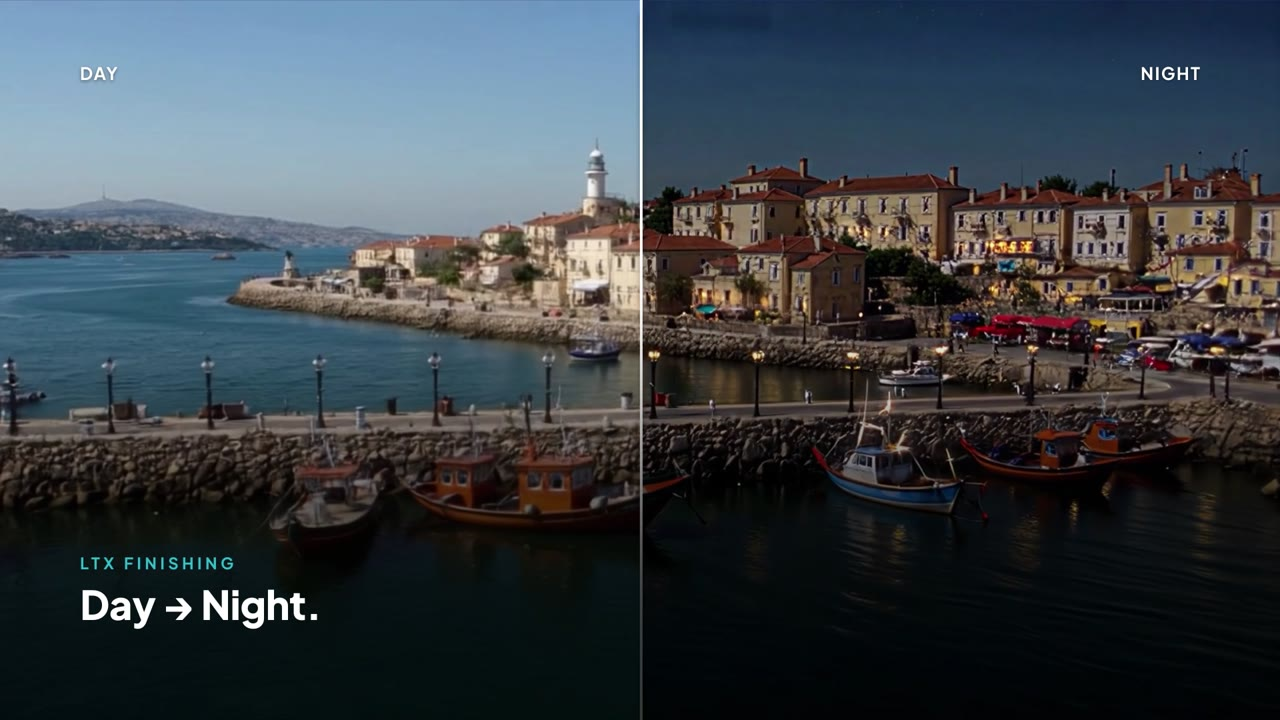
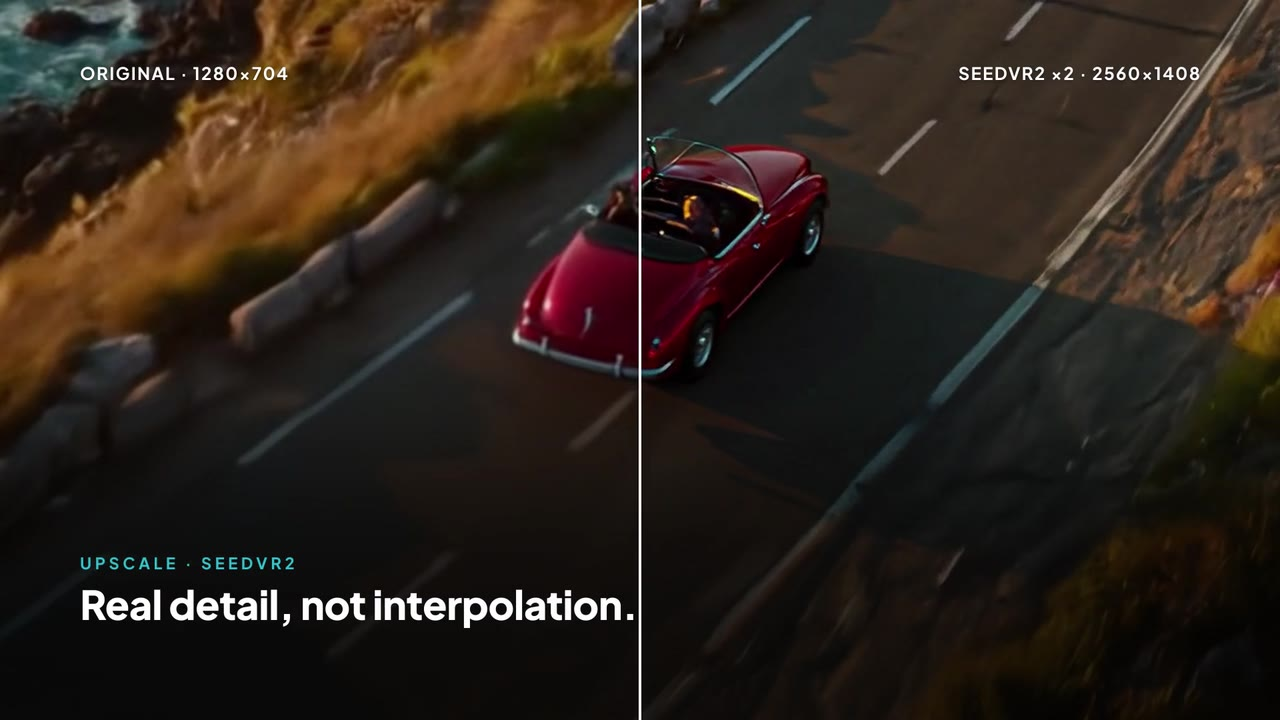
README: your own ComfyUI workflows first, model-agnostic; upscale replaces Day → Night
A section on the workflow being the user's own: listed from their ComfyUI or imported, read as a form the comp
fills in, opened in the ComfyUI editor and saved back (with a still of the editor from the demo). The finishing row
shows the SeedVR2 ×2 before / after instead of the harbour Day → Night, and lists the upscale engines; the marker
pair row says Wan 2.2 or any video workflow can fill the gap; the model table adds MiniMax H3 and Wan 2.2. The demo
video in docs/media is the fourth cut (history rewritten locally so the repository keeps one video).

diff --git a/README.md b/README.md
@@ -9,8 +9,8 @@
 
 <p align="center">
   <b>ComfyUI inside the open-source EffectCraft.</b><br>
-  Generate shots from your timeline, fill the cut between two clips, reframe with generated pixels, upscale, cut out,
-  extend and restore whole comps — with open models, on your own GPU or on Comfy's.
+  Your ComfyUI workflows, with any model, run against your timeline: generate shots, fill the cut between two clips,
+  reframe with generated pixels, upscale, cut out, extend and restore whole comps — on your own GPU or on Comfy's.
 </p>
 
 <p align="center">
@@ -18,7 +18,7 @@
   <sub>▶ <a href="docs/media/justae-flow-demo.mp4">Watch the two-minute demo</a></sub>
 </p>
 
-<p align="center">GPL-3.0 · open weights only · no closed APIs · no telemetry · no account</p>
+<p align="center">GPL-3.0 · any ComfyUI workflow, any model · open-weight presets · no telemetry · no account</p>
 
 ---
 
@@ -28,6 +28,22 @@ workflows against your comp. Placeholder layers and markers become a storyboard 
 turns the whole comp into something new: another format, a sharper master, a cut-out with alpha, a longer shot. Every
 result lands in the project as a new comp or layer, never over your work, with its versions and the exact graph that
 made it.
+
+## Your ComfyUI, your workflows
+
+<p align="center">
+  <img src="docs/media/workflow.jpg" alt="A ComfyUI workflow open in the ComfyUI editor, its nodes being moved" width="920">
+</p>
+
+It is your usual ComfyUI, with your own workflows and your models. The Workflow tab lists the workflows saved in your
+ComfyUI, or imports a file; each graph is read as a form, and the comp fills in its size, length and frame rate.
+**Edit in ComfyUI** opens the same workflow in the ComfyUI editor: move around it, change its nodes, models and
+settings, save with Ctrl+S, press Refresh, and the panel follows. JustAE Flow is model-agnostic: it reads a workflow's
+inputs — prompts, images, size, length — not its model, so whatever model your ComfyUI runs, the Flow can use on your
+comp. The **Featured** presets are a place to start: they say what is ready on your machine and download only the
+models you pick.
+
+JustAE Flow works only with ComfyUI — yours, or Comfy's in the cloud.
 
 ## What it does
 
@@ -42,7 +58,7 @@ timed by it.</td>
 <td><img src="docs/media/transition.jpg" alt="Two clips with a marker pair around the gap, the shot between them generated"></td>
 <td><b>The shot between two clips.</b> Put a pair of comp markers around a cut, take the last frame of one clip and the
 first of the next from the comp: MiniMax H3 generates the shot that joins them, with its sound, exactly as long as the
-gap — then SeedVR2 ×2 or LTX Refine on top if you like.</td>
+gap — then SeedVR2 ×2 or LTX Refine on top if you like. Wan 2.2, or any video workflow of yours, can fill it too.</td>
 </tr>
 <tr>
 <td><img src="docs/media/reframe.jpg" alt="A 16:9 shot reframed to 9:16, the new sky and sea generated"></td>
@@ -51,9 +67,10 @@ needs instead of cropping your shot, which stays untouched in the middle, the ne
 social pack makes several formats in one queue.</td>
 </tr>
 <tr>
-<td><img src="docs/media/finishing.jpg" alt="A harbour by day and at night, split by a wipe"></td>
-<td><b>LTX finishing.</b> Lightricks' IC-LoRAs as VFX tools on the comp: Day → Night, Colorize, Archive restore,
-Deblur, Clean plate, SDR → HDR, and LTX Refine up to 4K by tiles, with 16-bit masters.</td>
+<td><img src="docs/media/finishing.jpg" alt="The same detail of a shot before and after SeedVR2 ×2, split by a wipe"></td>
+<td><b>Upscale and finishing.</b> SeedVR2 ×2 or ×4 adds real detail and keeps the colours; LTX Refine rebuilds detail
+to Full HD, 4K or 8K by tiles. Lightricks' IC-LoRAs work as VFX tools on the comp: Archive restore, Deblur,
+De-compression, Colorize, Clean plate, Day → Night, SDR → HDR, with 16-bit masters.</td>
 </tr>
 <tr>
 <td><img src="docs/media/cutout.jpg" alt="A subject cut out of a shot with its alpha matte"></td>
@@ -66,11 +83,6 @@ edges. The matte goes on the layer as a track matte; one click writes a ProRes 4
 local vision model can write the prompt from your frames. RIFE or FILM add the frames in between for slow motion.</td>
 </tr>
 </table>
-
-JustAE Flow works only with ComfyUI — yours, or Comfy's in the cloud. The curated **Featured** presets are there to
-start, and they say what is ready on your machine and download only the models you pick; but any ComfyUI workflow,
-with any model you use in Comfy, runs from the Workflow tab too, read as a form the comp fills in (size, length, frame
-rate).
 
 ## Your GPU, or Comfy's
 
@@ -100,7 +112,7 @@ Everything else, from the model list to the cloud setup and every tool, is in **
 |---|---|
 | Host | [EffectCraft](https://github.com/storytold/effectcraft) (MIT OR Apache-2.0); [PhotoCraft](https://github.com/storytold/photocraft) for stills |
 | Engine | [ComfyUI](https://github.com/comfyanonymous/ComfyUI) (GPL-3.0) and its official workflow templates (MIT) |
-| Models | open weights only: LTX-2.5, Wan 2.1 VACE, SeedVR2, SAM 3, Z-Image-Turbo, Qwen-Image-Edit, Qwen3-VL, RIFE, FILM |
+| Models | any model your ComfyUI runs; the presets use open weights only: LTX-2.5, MiniMax H3, Wan 2.2, Wan 2.1 VACE, SeedVR2, SAM 3, Z-Image-Turbo, Qwen-Image-Edit, Qwen3-VL, RIFE, FILM |
 | This plugin | GPL-3.0: the server, the Flow window, the EffectCraft panel |
 
 Model weights are not included. Each model keeps its own licence, listed in [NOTICE](NOTICE); read them before using
